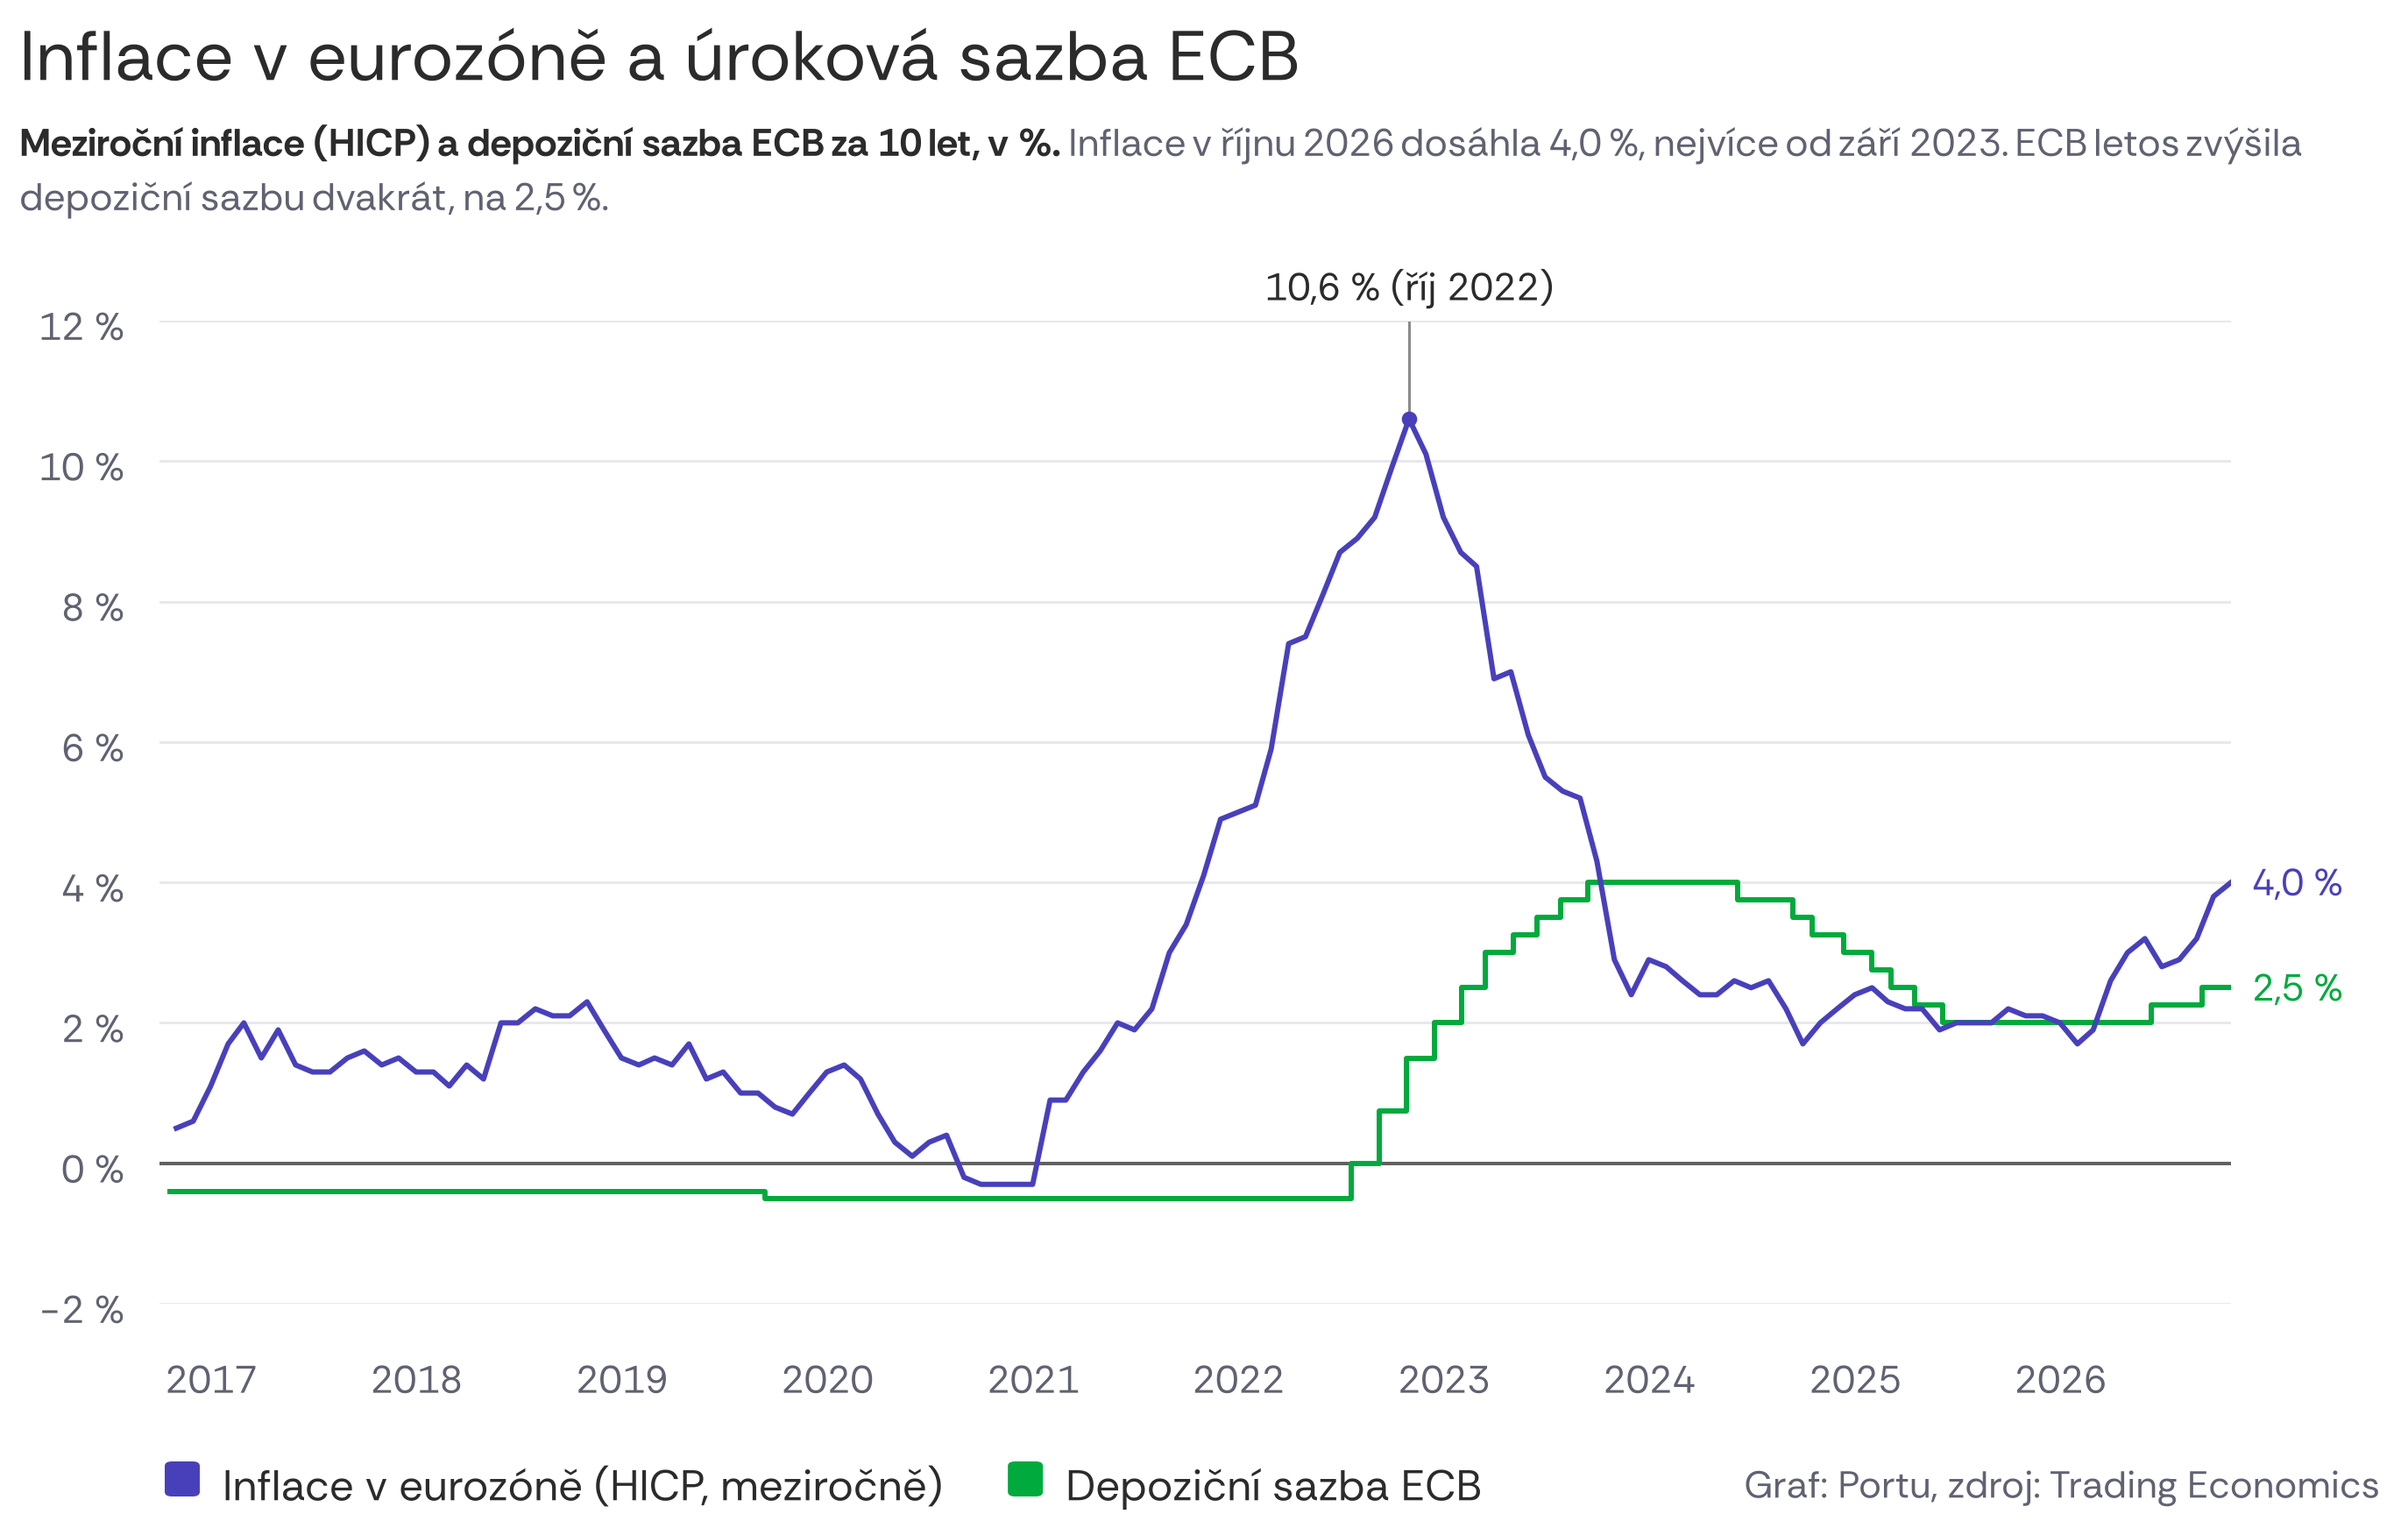
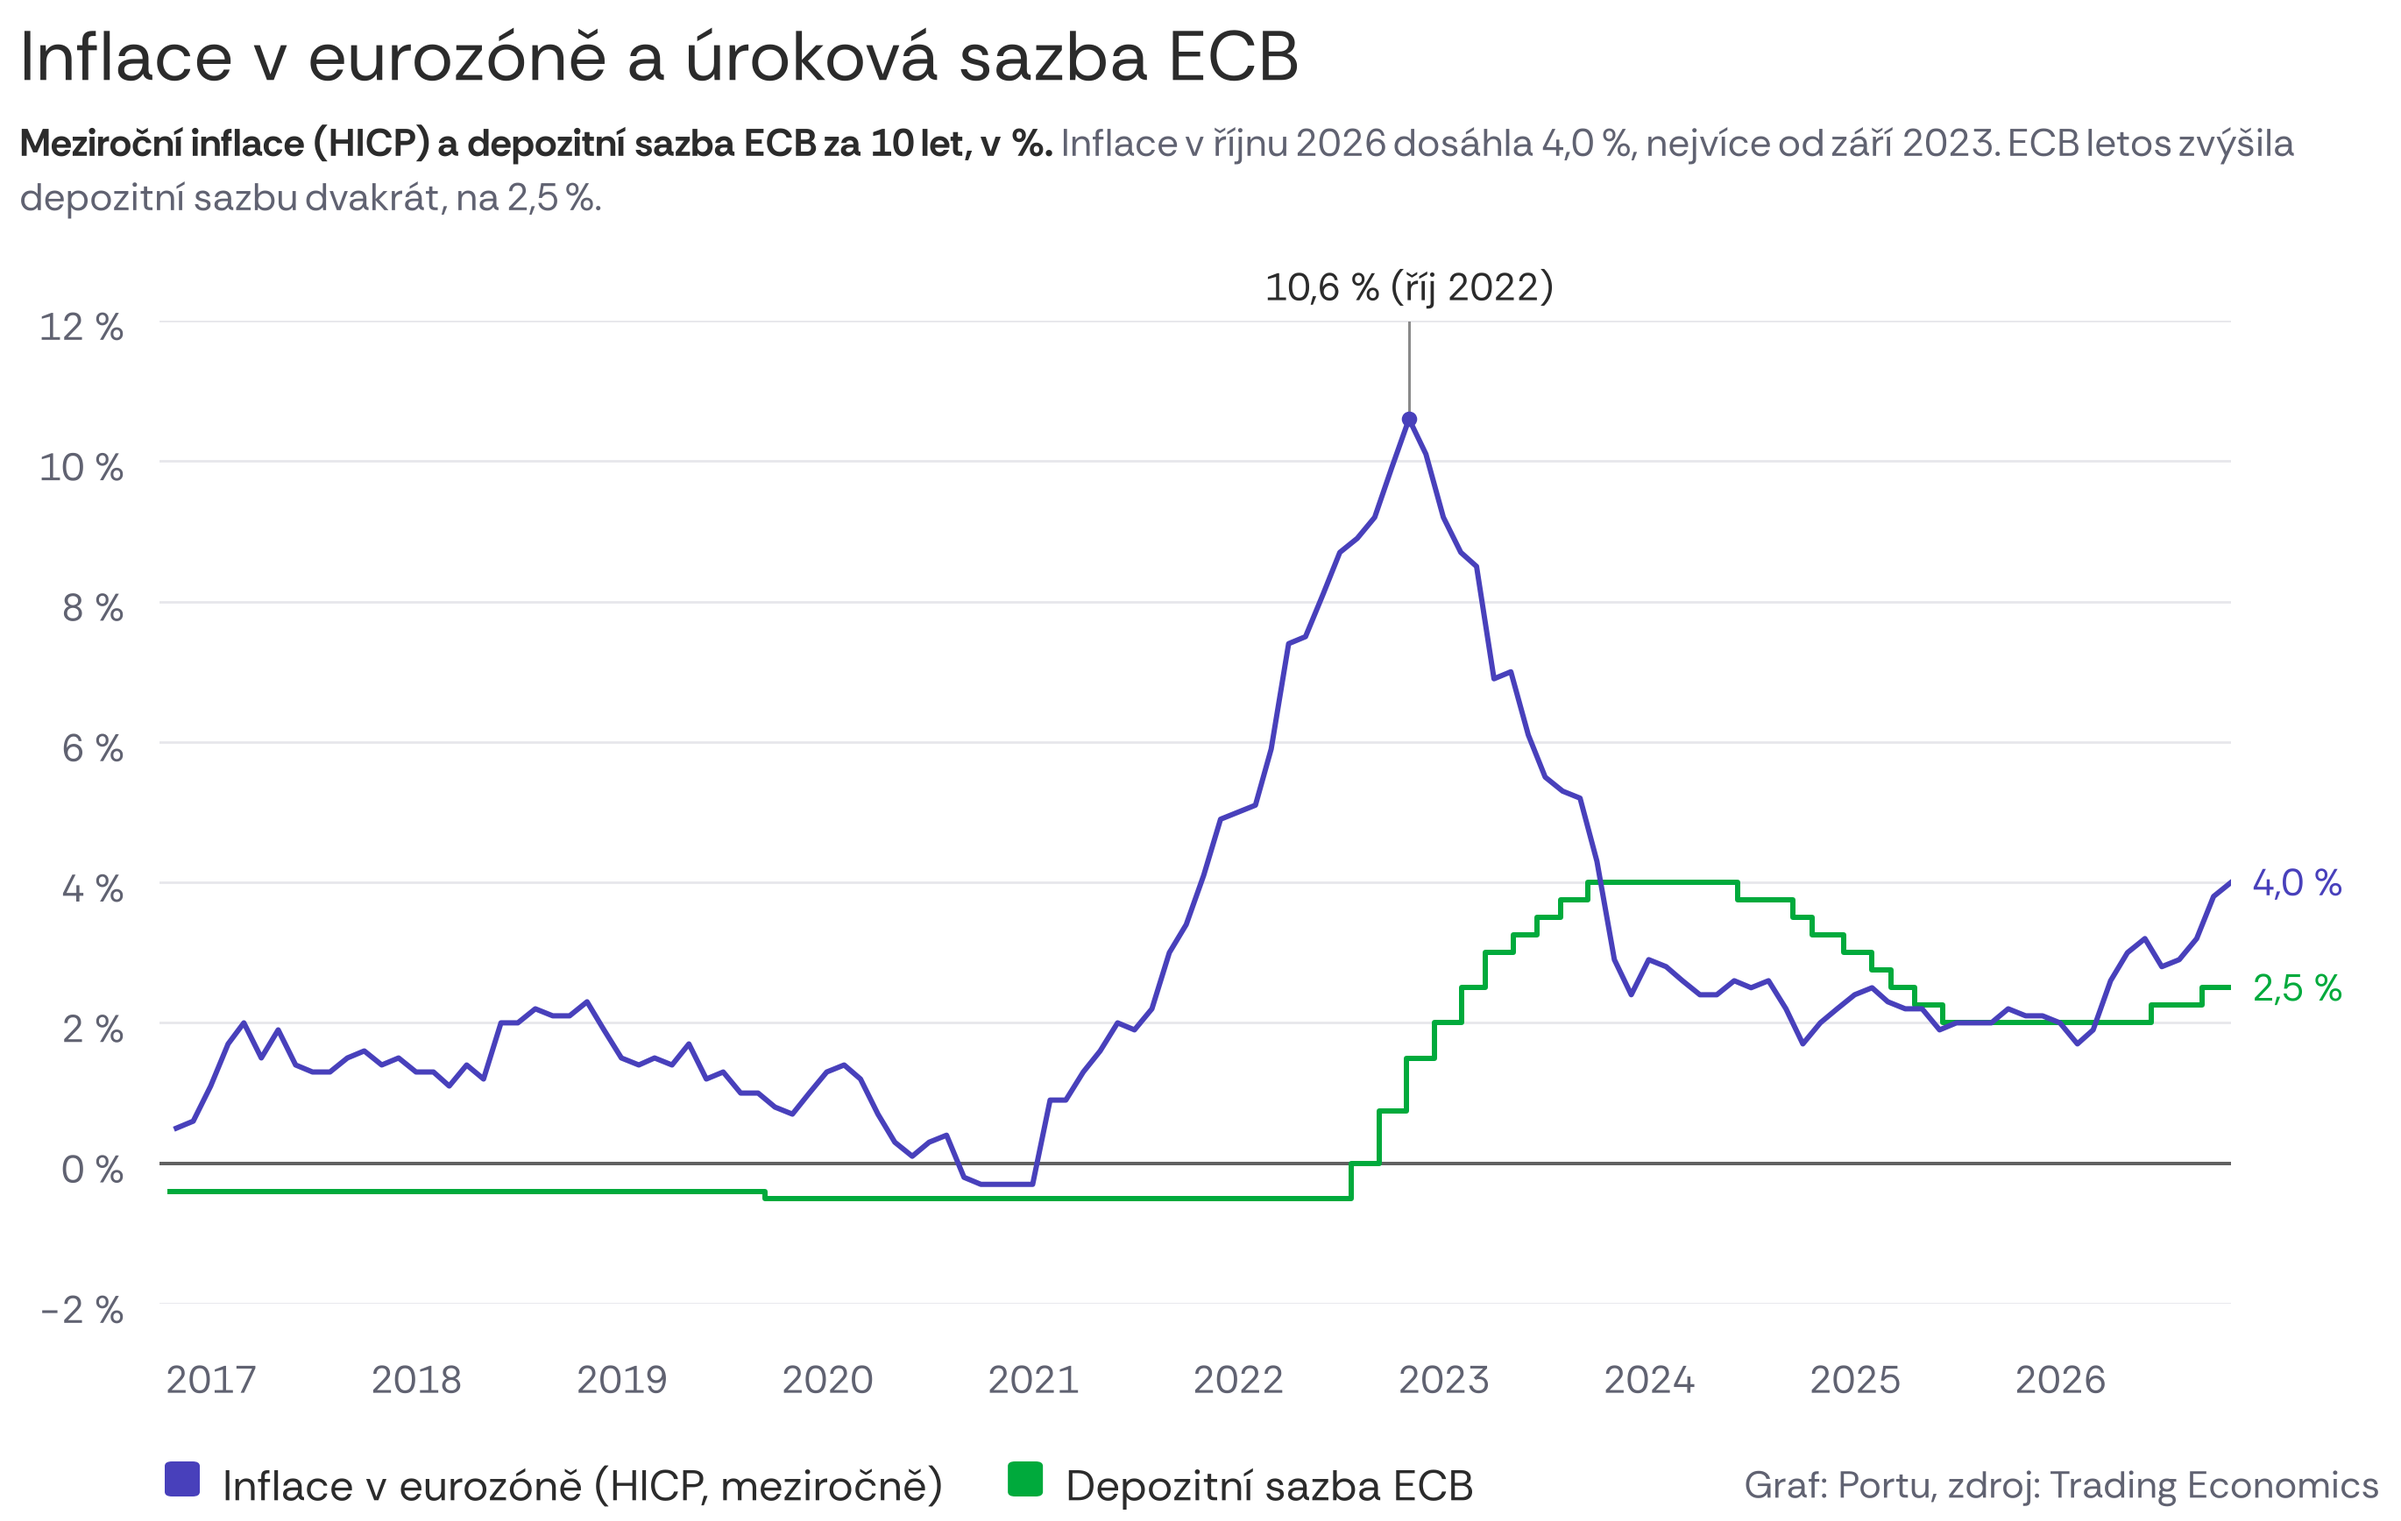
Graf inflace eurozóny: depozitní (ne depoziční) sazba ECB
Claude-Session: https://claude.ai/code/session_01A8r6cxYv4z3RaLJthvcQAS

Changed region(s): [[0.2482, 0.0622, 0.9617, 0.1244], [0.062, 0.1244, 0.2482, 0.1555], [0.4964, 0.9643, 0.6204, 0.9954]]

diff --git a/vystupy/grafy/2026-11-27-eurozona-inflace-ecb.py b/vystupy/grafy/2026-11-27-eurozona-inflace-ecb.py
@@ -1,6 +1,6 @@
-"""Inflace v eurozóně (HICP, meziročně) a depoziční sazba ECB za 10 let (10/2016 – 10/2026), v %. Nový design Portu.
+"""Inflace v eurozóně (HICP, meziročně) a depozitní sazba ECB za 10 let (10/2016 – 10/2026), v %. Nový design Portu.
 
-Data: Trading Economics – ECCPEMUY (meziroční inflace HICP, měsíčně, ke konci měsíce) a EUROAREADEPINTRAT (depoziční
+Data: Trading Economics – ECCPEMUY (meziroční inflace HICP, měsíčně, ke konci měsíce) a EUROAREADEPINTRAT (depozitní
 sazba ECB, schodovitě od data rozhodnutí; poslední bod 31. 10. 2026 jen prodlužuje platnou sazbu na konec grafu).
 Spouštěj z kořene repozitáře: python3 vystupy/grafy/2026-11-27-eurozona-inflace-ecb.py
 """
@@ -17,24 +17,24 @@ with open(ZAKLAD + "eurozona-inflace.csv", encoding="utf-8") as f:
     r = list(csv.DictReader(f))
 mesice = [dt.date.fromisoformat(x["mesic_konec"]) for x in r]
 inflace = [float(x["hicp_mezirocne_pct"]) for x in r]
-with open(ZAKLAD + "ecb-depozicni-sazba.csv", encoding="utf-8") as f:
+with open(ZAKLAD + "ecb-depozitni-sazba.csv", encoding="utf-8") as f:
     r = list(csv.DictReader(f))
 dny = [dt.date.fromisoformat(x["datum"]) for x in r]
-sazba = [float(x["depozicni_sazba_pct"]) for x in r]
+sazba = [float(x["depozitni_sazba_pct"]) for x in r]
 
 i_max = max(range(len(inflace)), key=inflace.__getitem__)
 
 fig = pg.spojnicovy(
     mesice,
-    {"Inflace v eurozóně (HICP, meziročně)": inflace, "Depoziční sazba ECB": (dny, sazba)},
+    {"Inflace v eurozóně (HICP, meziročně)": inflace, "Depozitní sazba ECB": (dny, sazba)},
     osa_y=(-2, 12, 2), jednotka="%", format_x="%Y", rozsah_x=(dt.date(2016, 10, 1), mesice[-1]),
-    schody=("Depoziční sazba ECB",), popisky_konec=True, mista_konec=1, tloustka_cary=3,
+    schody=("Depozitní sazba ECB",), popisky_konec=True, mista_konec=1, tloustka_cary=3,
     anotace=[(mesice[i_max], inflace[i_max], f"{pg.cislo(inflace[i_max], 1, '%')} (říj 2022)", "nad"),
             ],
     zdroj="Graf: Portu, zdroj: Trading Economics",
     nadpis="Inflace v eurozóně a úroková sazba ECB",
-    podnadpis=("Meziroční inflace (HICP) a depoziční sazba ECB za 10 let, v %.",
-               "Inflace v říjnu 2026 dosáhla 4,0 %, nejvíce od září 2023. ECB letos zvýšila depoziční sazbu dvakrát, "
+    podnadpis=("Meziroční inflace (HICP) a depozitní sazba ECB za 10 let, v %.",
+               "Inflace v říjnu 2026 dosáhla 4,0 %, nejvíce od září 2023. ECB letos zvýšila depozitní sazbu dvakrát, "
                "na 2,5 %."),
 )
 pg.uloz(fig, ZAKLAD + "eurozona-inflace-ecb.png", zvetseni=2)
